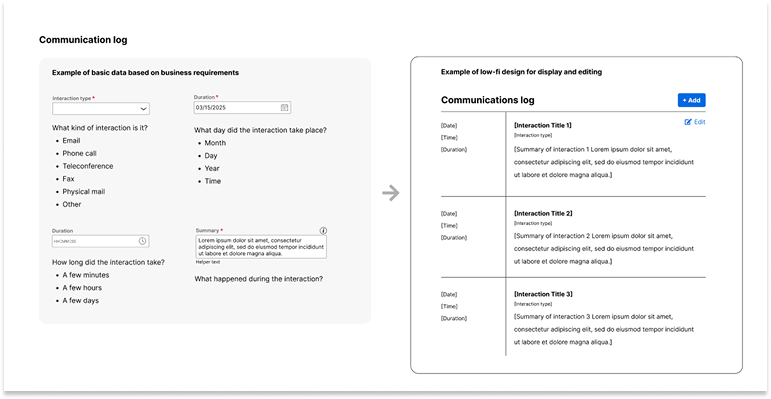
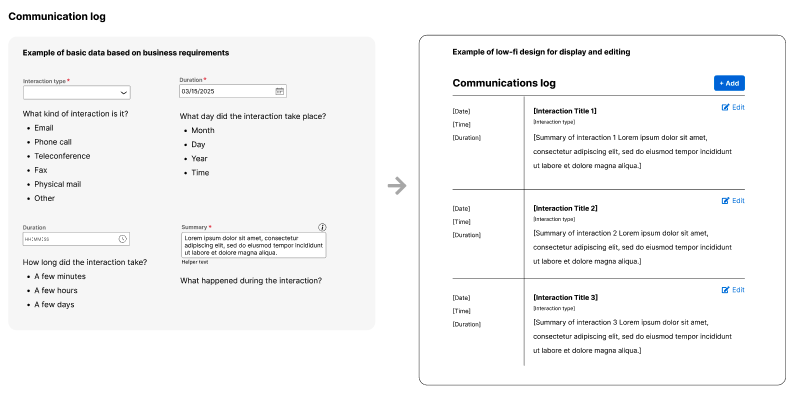
redid project 1

diff --git a/project1.html b/project1.html
@@ -51,7 +51,7 @@
             </div>
             <div class="project-details">
                 <p class="project-details__label"><strong>Tools</strong></p>
-                <p>Sketch, MS Suite, Zoom</p>
+                <p>Sketch, Microsoft Office Suite, Zoom, Jira</p>
             </div>
             <div class="project-details">
                 <p class="project-details__label"><strong>Skills</strong></p>
@@ -63,81 +63,223 @@
             <div class="project-content">
                 <section class="overview" id="overview">
                     <h2>Overview</h2>
+                    <h3>Problem</h3>
                     <p>
-                        Most of my work focuses on building communication tools that would improve real-time
-                        interactions, conversation tracking across multiple legacy applications, and long-term
-                        interaction trends. High-quality communication between FDA and device manufacturers is
-                        associated with improvements in medical devices, resulting in the U.S. market having access
-                        safer and more effective products.
+                        High-quality communication between FDA and device manufacturers is associated with improvements in medical devices, resulting in the U.S. market having access safer and more effective products. Traditionally, medical device developers communicate with FDA by physically mailing in parcels of device information and creating dozens of different email threads with various attachments. This decentralized communication process hampers collaboration to develop quality medical devices. 
                     </p>
-                    <h3>Results & Impact</h3>
+                    <h3>Results & impact</h3>
                     <p>
                         Because I was involved as both a researcher and designer, I was able to create designs and
                         measure it’s impact on business strategy. Across the various projects, I created products that:
                     </p>
                     <ol>
-                        <li>Improved the user level of ease scores, improving overall usability </li>
-                        <li>Reduced tool-switching friction, resulting an increase in efficiency</li>
-                        <li>Increased potential user loyalty to the program, fulfilling long-term retention goals</li>
+                        <li>Improved the user level of ease scores by 13%, which indicates increase in usability </li>
+                        <li>Reduced tool-switching friction by 25%, resulting an increase in efficiency</li>
+                        <li>Satisfied potential user loyalty of at least 60%, fulfilling long-term retention goals</li>
                     </ol>
                 </section>
-                <section class="project-content-section" id="notable-highlights">
-                    <h2>Notable Highlights</h2>
-                    <h3>Conducted interviews</h3>
+                <section class="project-content-section" id="phase-1">
+                    <h2>Phase 1: Uncover the Problem</h2>
+                    <h3>Optimizing communication is a shared goal</h3>
                     <p>
-                        I led discovery interviews with 4 users to understand key problems and get feedback about the
-                        current process of communication. Below is a quote from a real user of the system. It highlights
-                        the importance of efficient collaboration and commmunication.
+                        More frequent interactions with the FDA often leads to better devices. FDA users desired to see their communications more closely tied to the device and various FDA programs and reviews that it has gone through. It is valuable for device manufacturer teams to connect directly with the FDA device review teams, but also to conversations and programs involved in the device's total lifecycle.
                     </p>
                     <blockquote class="quote">
                         “ Industry users and FDA have the same goals. We both want to get the product to market as
                         quickly and using the least resources as possible to get the submissions reviewed and
                         completed.”
-                        <cite>- User</cite>
+                        <cite>- User highlights that communication improvement is part of a larger, mutual goal</cite>
                     </blockquote>
-                    <h3>Evaluated messaging prototypes</h3>
+                    <h3>Three user needs that design needs to fulfill</h3>
                     <p>
-                        I led usability testing of a threaded messaging prototype with 10 users in order to create
-                        initial UI designs that addressed the problems.
+                        After conducting multiple interviews with our users, studying past desk research, and playing in the sandbox environments, our team grouped our insights and established three user needs : 
+                    </p>
+                    <div class="three-blocks">
+                        <div>
+                            <p>Users need real-time communication so that they can proactively address problems.</p>
+                        </div>
+                        <div>
+                            <p>Users need to track and consolidate all device development conversations.</p>
+                        </div>
+                        <div>
+                            <p>Users need ways to request for help or resources while working on their device.</p>
+                        </div>
+                    </div>
+                    <h3>Identifying user needs with thorough research</h3>
+                    <p>In order to prevent delays and reduce risk when developing a system, we have to understand the current workflow of FDA reviewers and medical device developers. 
+                        I conducted <strong>desk research</strong> by sifting through dozens of past user sessions to understand the legacy systems that reviewers worked in and to avoid repeating work. 
+                        I also familiarized myself with the reviewer's work applications by using <strong>sandbox environments</strong>, so that I could understand the users' perspective better. In addition, 
+                        I conducted <strong>one-on-one interviews</strong> with four FDA users to validate ideas about how to re-imagine their communication workflow. 
                     </p>
                     <figure>
-                        <img src="assests/project 1/Usability Testing Summary.png" alt="usability test results"
+                        <img src="assests/project 1/Journey Map.png" alt="Journey map of a medical device review process"
                             style="width:100%">
                         <figcaption>
-                            This was the results of the usability test of a threaded messaging prototype. Based on these
-                            insights, I wrote a report and created new iterations of mockups that could address the the
-                            most critical pain points.
+                            I created a generic journey map based on public information to illustrate how FDA reviewers and device developers typically communicate during medical device development. Many details have been simplified or redacted, so it's meant more as a rough sketch than an exact representation.
                         </figcaption>
-                    </figure>
-                    <h3>Created enterprise communication features</h3>
-                    <p>
-                        I designed a consolidated interactions tracking log for multi-channel communications from
-                        multiple legacy integrations.
-                    </p>
-                    <figure>
-                        <img src="assests/project 1/Summary Log.png" alt="communications log" style="width:100%">
-                        <figcaption>
-                            This is a simplified, redacted, low-fi design for consolidating and tracking multi-channel
-                            communications across different apps and tools in one place.
-                        </figcaption>
-                    </figure>
-                    <h3>Designed end-to-end product UIs</h3>
-                    <p>I collaborated with business & developers to design a reviewer workflow and system to track
-                        long-term interactions for the full journey of a medical device to the U.S. market. </p>
-                    <figure>
-                        <img src="assests/project 1/Pega Constellation.png" alt="Pega Constellations Design System"
-                            style="width:100%">
-                        <figcaption>
-                            This is a generic and public template of a Pega Constellation design system, which is very
-                            similar in terms of components and complexity of the interfaces that I design. </figcaption>
                     </figure>
                 </section>
+                <section class="project-content-section" id="phase-2">
+                    <h2>Phase 2: Exploring Solutions</h2>
+                    <h3>Three different solutions for three different needs</h3>
+                    <p>
+                        There are always multiple solutions to address the different user need: need for real-time communication, tracking communications, and requesting for help. Working with the business and developers, we decided to translate each need into it’s own design because each need was different enough that a single fix wouldn’t work. This helped us stay aligned, reduce confusion, and build solutions that directly solved the right problems.
+                    </p>
+                    <h3>Usability testing the threaded messaging rapid prototype for real-time interactions</h3>
+                    <p>
+                        I worked with the developers to evaluate the effectiveness of a messaging rapid prototype. I scheduled, interviewed, moderated, and took notes for each of the 5 user sessions with FDA users. I guided them through the tasks, which involved finding messages from industry users, composing messages, and searching through messages for answers. As they walk through the tasks, I asked them to think aloud and tracked their behaviors (e.g., how quickly they completed each task, self-reported satisfaction of each task, etc.) and probed them to find the "why" behind their answers.
+                    </p>
+                    <p>
+                        I found that FDA users had the most difficulty locating messages and understanding who had access to the messages. My re-designs focused on creating a clear navigational path to messages and clarifying the visibility of messages.
+                    </p>
+                    <figure>
+                        <img src="assests/project 1/Usability Testing Summary.png" alt="Usability testing summary"
+                            style="width:100%">
+                        <figcaption>
+                            This was the results of the usability test of a threaded messaging prototype. Based on these insights, I wrote a report and created new iterations of mockups that could address the the most critical pain points. 
+                        </figcaption>
+                    </figure>
+                    <h3>Prototyping & testing a summary log for tracking multi-channel legacy integrations</h3>
+                    <p>
+                        I worked with clients on developing a proposal for centralizing interactions. I used <strong>informal, collaborative peer-review</strong> to co-design the solution with 
+                        5 other people from the business & UX team. Over a few months, I led design discussions and created wireframes on screen. We would use methods like <strong>dot 
+                         voting, focus groups, & ideation sessions</strong> to find the best solution. From their feedback, I was able to iteratively adapt the designs to better accommodate user needs.
+                    </p>
+                    <figure>
+                        <img src="assests/project 1/Omnichannel Comms.png" alt="Omnichannel communications"
+                            style="width:100%">
+                        <figcaption>
+                            The nature of communication between FDA and device developers can take many places and there are many people involved. It’s diffcult to track a singular source of truth and complete history of conversations.
+                        </figcaption>
+                    </figure>
+                    <h3>Creating & user testing a new request workflow</h3>
+                    <p>
+                        In order to address device developer need for special communication requests, I worked with a product team through <strong>Jira</strong> to develop an end-to-end web app solution. 
+                        I designed UIs for a pilot program that could help track long-term interaction requests. I analyzed feedback from <strong>user testing</strong> sessions with 25 FDA reviewer. 
+                        I studied how they accepted and fulfilled requests from users through the systems and then iterated upon the designs. I also designed web forms for device developers to send forms in.
+                    </p>
+                    <figure>
+                        <img src="assests/project 1/Pega Constellation.png" alt="Pega constellation design system example"
+                            style="width:100%">
+                        <figcaption>
+                            This is a generic template from the Pega Constellation design system, which is similar to how complex designing for reviewing communication requests can be. Data must be sent in an then reorganized across many tabs. In addition, there are specific tasks and deadlines for every request that must be tracked. (Courtesy of Pega Constellation)
+                        </figcaption>
+                    </figure>
+                </section>
+                <section class="project-content-section" id="phase-3">
+                    <h2>Phase 3: Evaluate Designs</h2>
+                    <p>
+                        Ultimately, all three solutions was supported by evidence from user testing, so the teams continued to develop for all three scenarios. As there was more design and research demands: 
+                    </p>
+                    <ul>
+                        <li>
+                            I wrapped up my work for the messaging prototype by delivering a full research report and minimally-viable product design solutions to improve it. 
+                        </li>
+                        <li>
+                            I created a comprehensive PDF with high-fidelity designs and documentation for additional features to explore.
+                        </li>
+                        <li>
+                            I delivered multiple high-fidelity design assets for the FDA reviewer tracking interactions workflow, which supported cross-functional alignment and accelerated handoff to development.
+                        </li>
+                    </ul>
+                    <h3>Measuring outcomes</h3>
+                    <ol>
+                        <li>
+                            When testing the messaging system, we were able to see a 13% improvement in user satisfaction scores. Based on historical data of 15 users, we calculated a benchmark of 67% satisfaction with the communication in the current system. Compared to the usability test we conducted with 10 users, which had an average satisfaction score of 80%, we saw a 13% improvement from the baseline. 
+                        </li>
+                        <li>
+                            The summary log prototype was able to reduce 25% in tool-switching friction. Past studies on a similar tool in the legacy system showed that users on average were switching ~12 times between various documents and tools to record data. With the new summary log, people on average were switching ~9 times, drastically reducing the need to add longer notes in other programs.
+                        </li>
+                        <li>
+                            Developing a long-term interactions program was able to get 60% of user loyalty to the platform. While long-term retention data wasn’t available due to the early stage of developing the program, 60% of test participants expressed strong intent to use the new workflow regularly. These are strong indicators of potential user loyalty.
+                        </li>
+                    </ol>
+                </section>
+                <section class="project-content-section" id="final">
+                    <h2>Final Design Choices</h2>
+                    <p>
+                        The images below are not associated with the FDA. They just show similar design ideas and the kind of complex flows I may have worked on.
+                    </p>
+                    <h3>Threaded messaging prototype</h3>
+                    <p>
+                        For the threaded messaging prototype, I focused on design choices that support real-time interactions while keeping conversations clear and organized. Features included:
+                    </p>
+                    <ul>
+                        <li>
+                            Threaded messages grouped and ordered so it’s easier to find responses
+                        </li>
+                        <li>
+                            Subtle timestamps and indicators keep users aware of activity
+                        </li>
+                        <li>
+                            Clean visual hierarchy reduces clutter and supports quick scanning
+                        </li>
+                        <li>
+                            Ongoing conversations next to submission information for understanding context
+                        </li>
+                    </ul>
+                    <figure>
+                        <img src="assests/project 1/Notion Mailbox.png" alt="Notion mail inbox view"
+                            style="width:100%">
+                        <figcaption>
+                            This is an illustration of Notion Mail, which contains many features that I had to test and design for such as opening messages, sending messages, and finding specific messages. (Courtesy of Notion Mail)
+                        </figcaption>
+                    </figure>
+                    <h3>Multi-channel communication log</h3>
+                    <p>
+                        I improved a multi-channel communication summary log to make it easier for users to track conversations across platforms. The updated design brings clarity to scattered messages by organizing them in one place, highlighting key actions, and reducing information overload.
+                    </p>
+                    <ul>
+                        <li>
+                            Grouped messages by channel and time to improve readability
+                        </li>
+                        <li>
+                            Added filters and tags to quickly find relevant updates
+                        </li>
+                        <li>
+                            Highlighted important actions and follow-ups for better visibility
+                        </li>
+                    </ul>
+                    <figure>
+                        <img src="assests/project 1/Summary Log.png" alt="Communications summary log"
+                            style="width:100%">
+                        <figcaption>
+                            This is a simplified, low-fi design for consolidating and tracking multi-channel communications across different apps and tools in one place. It illustrates how I would collect business requirements and translate them into design requirements.
+                        </figcaption>
+                    </figure>
+                    <h3>Long-term interaction request workflow</h3>
+                    <p>
+                        I improved the design of a long-term interaction request workflow to make it easier for users to plan, submit, and track extended engagements. The updated flow focuses on clarity, reducing back-and-forth, and giving users better visibility into request status and next steps.
+                    </p>
+                    <ul>
+                        <li>
+                            Simplified form inputs and grouped them by task to reduce cognitive load
+                        </li>
+                        <li>
+                            Added progress indicators and status updates for better transparency
+                        </li>
+                        <li>
+                            Designed confirmation screens and alerts to reduce uncertainty and follow-up questions
+                        </li>
+                    </ul>
+                    <figure>
+                        <img src="assests/project 1/Pega Constellation 2.png" alt="Pega constellation table view"
+                            style="width:100%">
+                        <figcaption>
+                            This is a similar example from Pega Constellation, of how I would organize information about interactions in a table and organize tasks on the screen for users. 
+                        </figcaption>
+                    </figure>
+                </section>
+
             </div>
             <nav class="project-nav" aria-label="Secondary navigation">
                 <ul>
                     <li><strong>TABLE OF CONTENTS</strong></li>
                     <li><a href="#overview">Overview</a></li>
-                    <li><a href="#notable-highlights">Notable Highlights</a></li>
+                    <li><a href="#phase-1">Uncover the Problem</a></li>
+                    <li><a href="#phase-2">Exploring Solutions</a></li>
+                    <li><a href="#phase-3">Evaluate Design</a></li>
+                    <li><a href="#final">Final Design Choice</a></li>
                 </ul>
             </nav>
         </div>

diff --git a/style.css b/style.css
@@ -571,11 +571,35 @@ button.main-button:hover {
   border-left-color: #E76F51;
 }
 
+.three-blocks {
+  display: grid;
+  grid-template-columns: 1fr;
+  gap: 1.25rem;
+  margin-bottom: 2rem;
+}
+
+.three-blocks > div {
+  width: 100%;
+  background-color: #eee;
+  justify-content: center;
+  align-items: center;
+  align-content: center;
+  text-align: center;
+  padding: 1rem;
+}
+
+.three-blocks > div > p {
+  margin: 0;
+}
+
 /* Responsive grid for the project details */
 @media (min-width: 600px) {
   .project-overview {
     grid-template-columns: 1fr 1fr;
     /* 2 columns for midsize screens */
+  }
+  .three-blocks {
+    grid-template-columns: 1fr 1fr 1fr;
   }
 }
 
@@ -605,7 +629,7 @@ button.main-button:hover {
   grid-column: 1 / -1;
 }
 
-/* END OF PROJECT PAGES */
+/***** END OF PROJECT PAGES *******/
 
 /******** WAVES ANIMATION *********/
 
